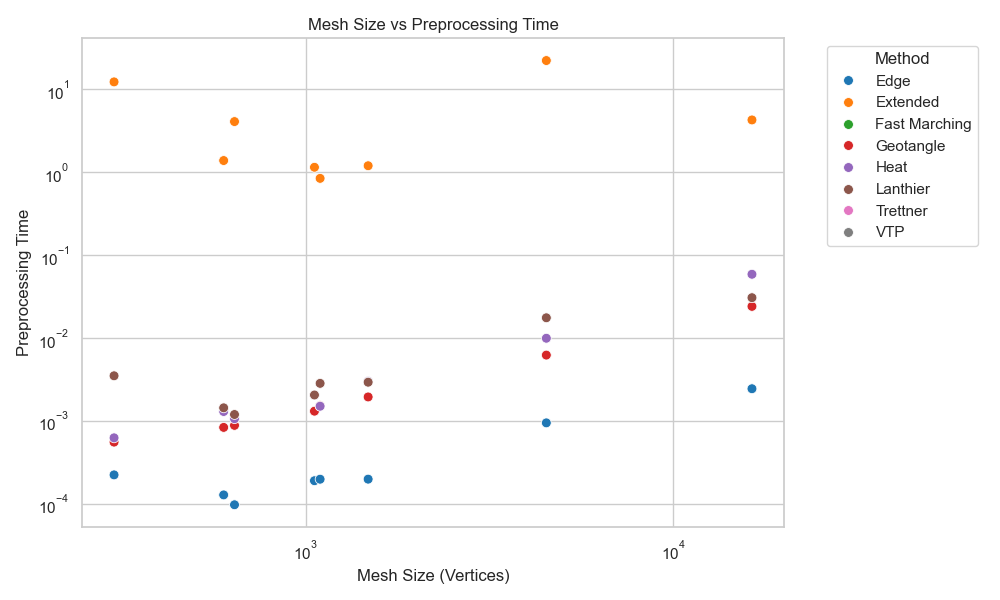
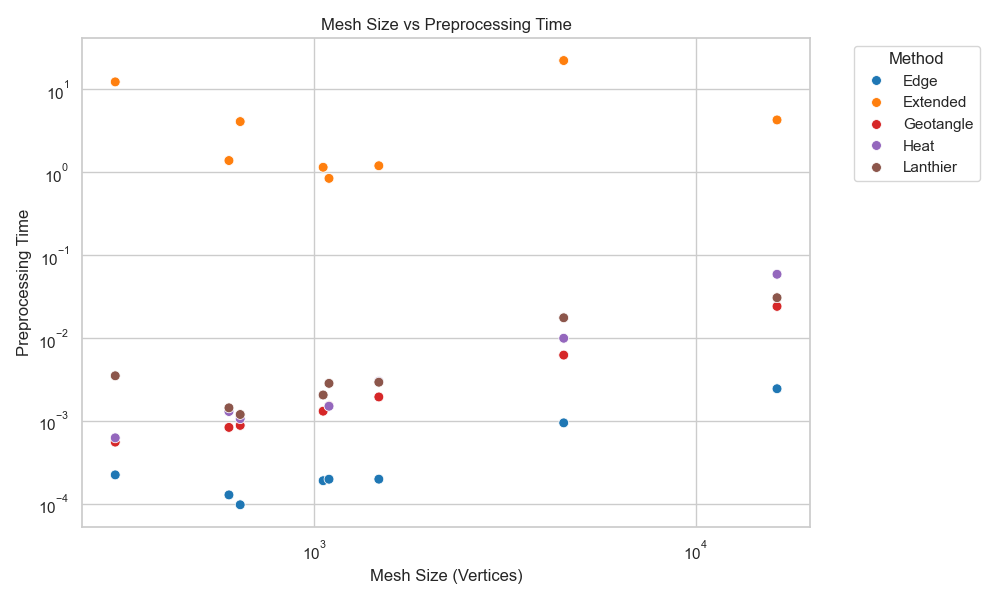
Time plot organic and mechanical legend correction for preprocessing

diff --git a/pymeshlab/Esperimento_2/mechanical/time_plot/time_plot.py b/pymeshlab/Esperimento_2/mechanical/time_plot/time_plot.py
@@ -1,50 +1,3 @@
-# import pandas as pd
-# import matplotlib.pyplot as plt
-# import seaborn as sns
-
-# # Load the CSV file
-# mean_times_df = pd.read_csv('../DISTANCES_OK/mean_times_mech_FINAL.csv')  # Make sure to set the correct path to your CSV file
-
-# # Calculate the size of the mesh
-# mean_times_df['Mesh Size'] = mean_times_df['Vertices']
-
-# # Set up the plotting environment
-# sns.set(style="whitegrid")
-
-# # Create a scatter plot for Query Time with logarithmic scales on both axes
-# plt.figure(figsize=(10, 6))
-# sns.scatterplot(data=mean_times_df, x='Mesh Size', y='Query Time', hue='Method', palette='tab10', s=50, marker='o')
-# plt.xscale('log')  # Set the x-axis to a logarithmic scale
-# plt.yscale('log')  # Set the y-axis to a logarithmic scale
-# plt.title('Mesh Size vs Query Time')
-# plt.xlabel('Mesh Size (Vertices)')
-# plt.ylabel('Query Time')
-# plt.legend(title='Method', bbox_to_anchor=(1.05, 1), loc='upper left')
-# plt.tight_layout()
-
-# # Save the plot
-# plt.savefig('mesh_size_vs_query_FINAL.png')
-
-# # Show the plot
-# plt.show()
-
-# # Create a scatter plot for Preprocessing Time with logarithmic scales on both axes
-# plt.figure(figsize=(10, 6))
-# sns.scatterplot(data=mean_times_df, x='Mesh Size', y='Preprocessing Time', hue='Method', palette='tab10', s=50, marker='o')
-# plt.xscale('log')  # Set the x-axis to a logarithmic scale
-# plt.yscale('log')  # Set the y-axis to a logarithmic scale
-# plt.title('Mesh Size vs Preprocessing Time')
-# plt.xlabel('Mesh Size (Vertices)')
-# plt.ylabel('Preprocessing Time')
-# plt.legend(title='Method', bbox_to_anchor=(1.05, 1), loc='upper left')
-# plt.tight_layout()
-
-# # Save the plot
-# plt.savefig('mesh_size_vs_preprocessing_FINAL.png')
-
-# # Show the plot
-# plt.show()
-
 # ------ WITH COLOR MAPPING ------
 import pandas as pd
 import matplotlib.pyplot as plt
@@ -88,9 +41,12 @@ plt.savefig('mesh_size_vs_query_FINAL.png')
 # Show the plot
 plt.show()
 
+# Filter rows where preprocessing is zero
+filtered_df = mean_times_df[mean_times_df['Preprocessing Time'] > 0]
+
 # Create a scatter plot for Preprocessing Time with logarithmic scales on both axes
 plt.figure(figsize=(10, 6))
-sns.scatterplot(data=mean_times_df, x='Mesh Size', y='Preprocessing Time', hue='Method', palette=color_mapping, s=50, marker='o')
+sns.scatterplot(data=filtered_df, x='Mesh Size', y='Preprocessing Time', hue='Method', palette=color_mapping, s=50, marker='o')
 plt.xscale('log')  # Set the x-axis to a logarithmic scale
 plt.yscale('log')  # Set the y-axis to a logarithmic scale
 plt.title('Mesh Size vs Preprocessing Time')

diff --git a/pymeshlab/Esperimento_2/organic/time_plot/time_plot.py b/pymeshlab/Esperimento_2/organic/time_plot/time_plot.py
@@ -8,12 +8,24 @@ mean_times_df = pd.read_csv('../DISTANCES_OK/mean_times_FINAL_MOD.csv')  # Make 
 # Calculate the size of the mesh
 mean_times_df['Mesh Size'] = mean_times_df['Vertices']
 
+
+color_mapping = {
+    'Edge': '#1f77b4',
+    'Extended': '#ff7f0e',
+    'Fast Marching': '#2ca02c',
+    'Geotangle': '#d62728',
+    'Heat': '#9467bd',
+    'Lanthier': '#8c564b',
+    'Trettner': '#e377c2',
+    'VTP': '#7f7f7f'
+}
+
 # Set up the plotting environment
 sns.set(style="whitegrid")
 
 # Create a scatter plot for Query Time with logarithmic scales on both axes
 plt.figure(figsize=(10, 6))
-sns.scatterplot(data=mean_times_df, x='Mesh Size', y='Query Time', hue='Method', palette='tab10', s=50, marker='o')
+sns.scatterplot(data=mean_times_df, x='Mesh Size', y='Query Time', hue='Method', palette=color_mapping, s=50, marker='o')
 plt.xscale('log')  # Set the x-axis to a logarithmic scale
 plt.yscale('log')  # Set the y-axis to a logarithmic scale
 plt.title('Mesh Size vs Query Time')
@@ -28,9 +40,12 @@ plt.savefig('mesh_size_vs_query_FINAL.png')
 # Show the plot
 plt.show()
 
+# Filter rows where preprocessing is zero
+filtered_df = mean_times_df[mean_times_df['Preprocessing Time'] > 0]
+
 # Create a scatter plot for Preprocessing Time with logarithmic scales on both axes
 plt.figure(figsize=(10, 6))
-sns.scatterplot(data=mean_times_df, x='Mesh Size', y='Preprocessing Time', hue='Method', palette='tab10', s=50, marker='o')
+sns.scatterplot(data=filtered_df, x='Mesh Size', y='Preprocessing Time', hue='Method', palette=color_mapping, s=50, marker='o')
 plt.xscale('log')  # Set the x-axis to a logarithmic scale
 plt.yscale('log')  # Set the y-axis to a logarithmic scale
 plt.title('Mesh Size vs Preprocessing Time')
